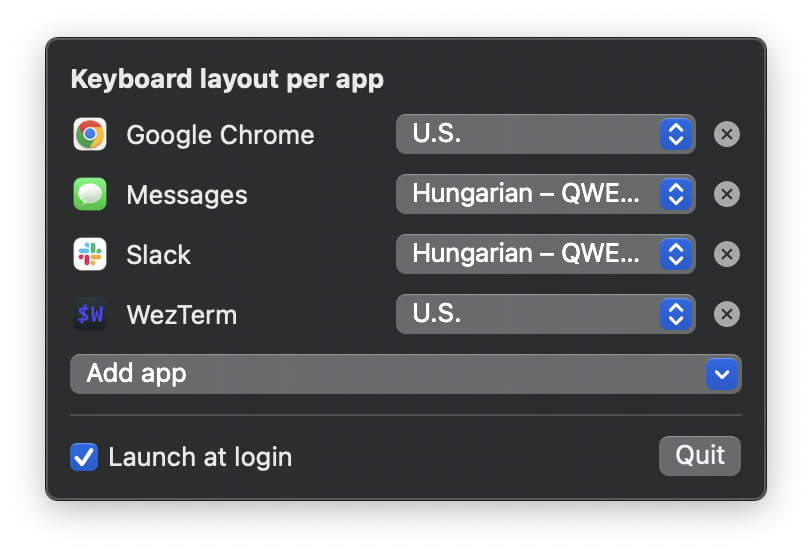
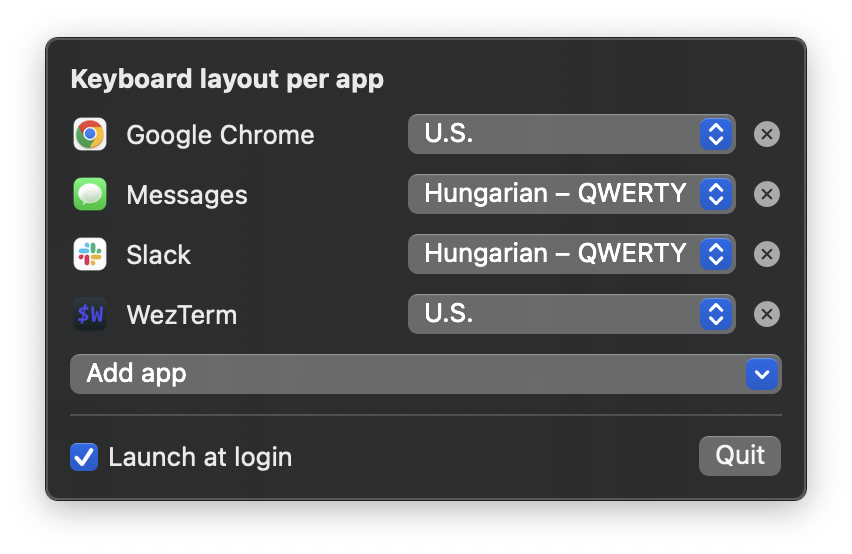
Polish code: Swift 6, logging, a11y, CI

diff --git a/Sources/AppLangswitcher/AppModel.swift b/Sources/AppLangswitcher/AppModel.swift
@@ -1,34 +1,8 @@
 import AppKit
 import Carbon
+import OSLog
 import ServiceManagement
 import UniformTypeIdentifiers
-
-struct Rule: Codable, Identifiable, Hashable {
-    let bundleID: String
-    var appName: String
-    var sourceID: String
-    var id: String { bundleID }
-}
-
-struct AppInfo: Identifiable, Hashable {
-    let bundleID: String
-    let name: String
-    var id: String { bundleID }
-}
-
-extension AppInfo {
-    init?(_ app: NSRunningApplication) {
-        guard let bundleID = app.bundleIdentifier else { return nil }
-        self.init(bundleID: bundleID, name: app.localizedName ?? bundleID)
-    }
-
-    init?(url: URL) {
-        guard let bundleID = Bundle(url: url)?.bundleIdentifier else { return nil }
-        var name = FileManager.default.displayName(atPath: url.path)
-        if name.hasSuffix(".app") { name = String(name.dropLast(4)) }
-        self.init(bundleID: bundleID, name: name)
-    }
-}
 
 @MainActor
 final class AppModel: ObservableObject {
@@ -59,7 +33,7 @@ final class AppModel: ObservableObject {
             do {
                 if newValue { try SMAppService.mainApp.register() } else { try SMAppService.mainApp.unregister() }
             } catch {
-                NSLog("AppLangswitcher: launch at login toggle failed: \(error)")
+                Logger.app.error("Launch at login toggle failed: \(error.localizedDescription, privacy: .public)")
             }
         }
     }
@@ -137,9 +111,12 @@ final class AppModel: ObservableObject {
     }
 
     private static func loadRules() -> [Rule] {
-        guard let data = UserDefaults.standard.data(forKey: rulesKey),
-              let rules = try? JSONDecoder().decode([Rule].self, from: data)
-        else { return [] }
-        return rules
+        guard let data = UserDefaults.standard.data(forKey: rulesKey) else { return [] }
+        do {
+            return try JSONDecoder().decode([Rule].self, from: data)
+        } catch {
+            Logger.app.error("Discarding unreadable saved rules: \(error.localizedDescription, privacy: .public)")
+            return []
+        }
     }
 }

diff --git a/Sources/AppLangswitcher/MenuView.swift b/Sources/AppLangswitcher/MenuView.swift
@@ -24,16 +24,13 @@ struct MenuView: View {
             Divider()
 
             HStack {
-                Toggle("Launch at login", isOn: Binding(
-                    get: { model.launchAtLogin },
-                    set: { model.launchAtLogin = $0 }
-                ))
+                Toggle("Launch at login", isOn: $model.launchAtLogin)
                 Spacer()
                 Button("Quit") { NSApp.terminate(nil) }
             }
         }
         .padding(12)
-        .frame(width: 360)
+        .frame(width: 380)
     }
 }
 
@@ -58,12 +55,14 @@ private struct RuleRow: View {
                 }
             }
             .labelsHidden()
-            .frame(width: 150)
+            .fixedSize()
             Button { model.remove(rule) } label: {
                 Image(systemName: "xmark.circle.fill")
             }
             .buttonStyle(.borderless)
             .foregroundStyle(.secondary)
+            .help("Remove \(rule.appName)")
+            .accessibilityLabel("Remove \(rule.appName)")
         }
     }
 

diff --git a/Sources/AppLangswitcher/InputSourceService.swift b/Sources/AppLangswitcher/InputSourceService.swift
@@ -1,6 +1,7 @@
 import Carbon
+import OSLog
 
-struct InputSource: Identifiable, Hashable {
+struct InputSource: Identifiable {
     let id: String
     let name: String
 }
@@ -23,10 +24,15 @@ enum InputSourceService {
     }
 
     static func select(id: String) {
-        guard id != currentID(),
-              let source = sources(matching: [kTISPropertyInputSourceID as String: id]).first
-        else { return }
-        TISSelectInputSource(source)
+        guard id != currentID() else { return }
+        guard let source = sources(matching: [kTISPropertyInputSourceID as String: id]).first else {
+            Logger.app.notice("Input source \(id, privacy: .public) is not enabled")
+            return
+        }
+        let status = TISSelectInputSource(source)
+        if status != noErr {
+            Logger.app.error("Selecting \(id, privacy: .public) failed with OSStatus \(status)")
+        }
     }
 
     private static func sources(matching filter: [String: Any]) -> [TISInputSource] {

diff --git a/Sources/AppLangswitcher/Models.swift b/Sources/AppLangswitcher/Models.swift
@@ -1,0 +1,28 @@
+import AppKit
+
+struct Rule: Codable, Identifiable {
+    let bundleID: String
+    var appName: String
+    var sourceID: String
+    var id: String { bundleID }
+}
+
+struct AppInfo: Identifiable {
+    let bundleID: String
+    let name: String
+    var id: String { bundleID }
+}
+
+extension AppInfo {
+    init?(_ app: NSRunningApplication) {
+        guard let bundleID = app.bundleIdentifier else { return nil }
+        self.init(bundleID: bundleID, name: app.localizedName ?? bundleID)
+    }
+
+    init?(url: URL) {
+        guard let bundleID = Bundle(url: url)?.bundleIdentifier else { return nil }
+        var name = FileManager.default.displayName(atPath: url.path)
+        if name.hasSuffix(".app") { name = String(name.dropLast(4)) }
+        self.init(bundleID: bundleID, name: name)
+    }
+}

diff --git a/Sources/AppLangswitcher/Logger+App.swift b/Sources/AppLangswitcher/Logger+App.swift
@@ -1,0 +1,5 @@
+import OSLog
+
+extension Logger {
+    static let app = Logger(subsystem: Bundle.main.bundleIdentifier ?? "AppLangswitcher", category: "app")
+}

diff --git a/Package.swift b/Package.swift
@@ -1,4 +1,4 @@
-// swift-tools-version:5.10
+// swift-tools-version:6.0
 import PackageDescription
 
 let package = Package(

diff --git a/README.md b/README.md
@@ -5,12 +5,16 @@
 <h1 align="center">AppLangswitcher</h1>
 
 <p align="center">
+  <a href="https://github.com/ducktordanny/applangswitcher/actions/workflows/build.yml"><img src="https://github.com/ducktordanny/applangswitcher/actions/workflows/build.yml/badge.svg" alt="Build"></a>
+</p>
+
+<p align="center">
   <b>Tired of switching keyboard layouts every time you switch apps?</b><br>
   Let your Mac do it for you.
 </p>
 
 <p align="center">
-  <img src="docs/screenshot.png" width="400" alt="AppLangswitcher menu with a keyboard layout per app">
+  <img src="docs/screenshot.png" width="420" alt="AppLangswitcher menu with a keyboard layout per app">
 </p>
 
 You chat in one language and code in another. Every ⌘Tab means another ⌃Space.
@@ -36,7 +40,7 @@ cd applangswitcher
 make install
 ```
 
-Needs macOS 13+ and Swift 5.10+. The Xcode Command Line Tools are enough.
+Needs macOS 13+ and Swift 6+. The Xcode Command Line Tools are enough.
 
 ## Use it
 
